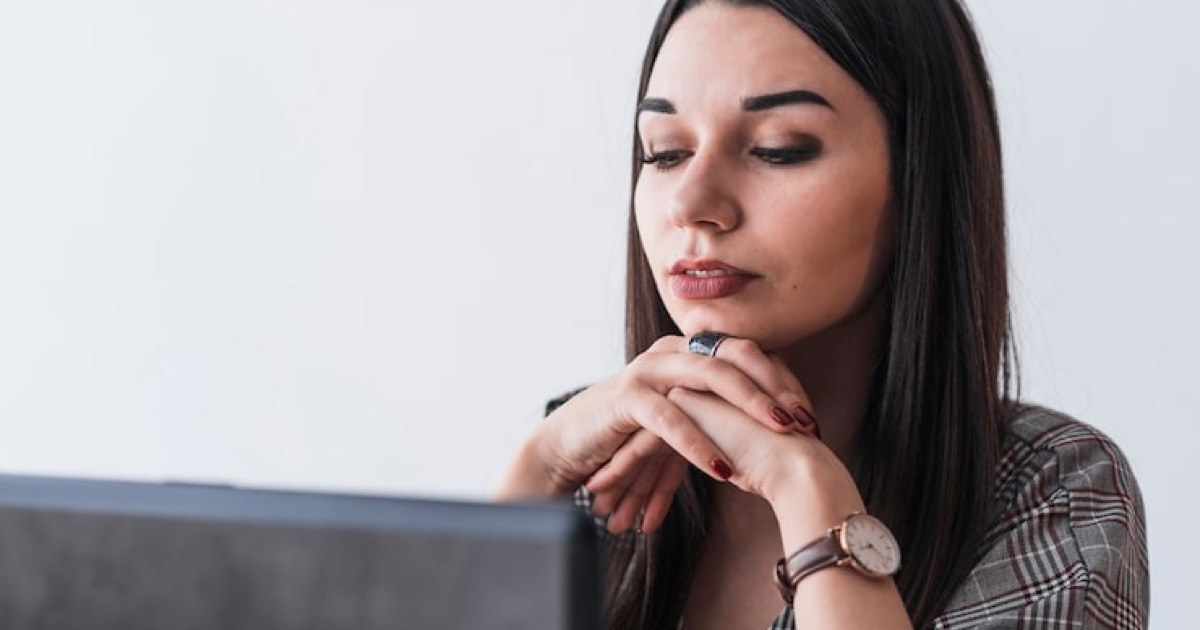
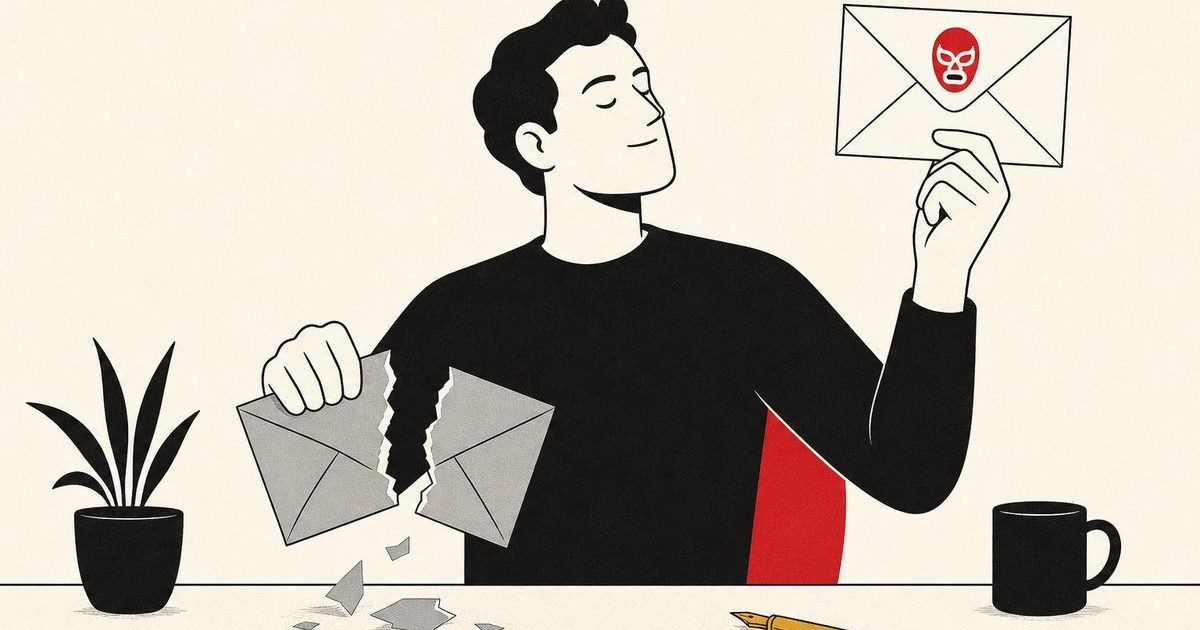
Blog: og:image y twitter:image de los 27 posts apuntan a las ilustraciones (recorte 1200×630)

diff --git a/public/blog/enviar-emails-desde-dominio.html b/public/blog/enviar-emails-desde-dominio.html
@@ -13,18 +13,18 @@
     <meta property="og:url" content="https://www.mailmask.studio/blog/enviar-emails-desde-dominio" />
     <meta property="og:locale" content="es_MX" />
     <meta property="og:site_name" content="MailMask" />
-    <meta property="og:image" content="https://www.mailmask.studio/blog/img/enviar-desde-dominio-og.jpg" />
+    <meta property="og:image" content="https://www.mailmask.studio/blog/img/enviar-dominio-og.jpg" />
     <meta property="og:image:width" content="1200" />
     <meta property="og:image:height" content="630" />
-    <meta property="og:image:alt" content="Persona trabajando en su laptop, respondiendo correo desde su dominio" />
-    <meta property="og:image:secure_url" content="https://www.mailmask.studio/blog/img/enviar-desde-dominio-og.jpg" />
+    <meta property="og:image:alt" content="Un buzón con la máscara de MailMask lanza un sobre como avión de papel" />
+    <meta property="og:image:secure_url" content="https://www.mailmask.studio/blog/img/enviar-dominio-og.jpg" />
     <meta property="og:image:type" content="image/jpeg" />
     <meta name="twitter:card" content="summary_large_image" />
     <meta name="twitter:site" content="@HectorBlisS" />
     <meta name="twitter:creator" content="@HectorBlisS" />
     <meta name="twitter:title" content="Cómo enviar emails desde tu dominio (no solo recibir)" />
     <meta name="twitter:description" content="Tres formas de enviar desde tu dominio: Bandeja, API/SDK y SMTP relay." />
-    <meta name="twitter:image" content="https://www.mailmask.studio/blog/img/enviar-desde-dominio-og.jpg" />
+    <meta name="twitter:image" content="https://www.mailmask.studio/blog/img/enviar-dominio-og.jpg" />
     <meta property="article:published_time" content="2026-02-24" />
     <meta property="article:modified_time" content="2026-08-12" />
     <script src="/js/analytics.js"></script>

diff --git a/public/blog/dominio-verificado-que-rebota-anatomia-ses.html b/public/blog/dominio-verificado-que-rebota-anatomia-ses.html
@@ -14,13 +14,13 @@
     <meta property="og:url" content="https://www.mailmask.studio/blog/dominio-verificado-que-rebota-anatomia-ses" />
     <meta property="og:locale" content="es_MX" />
     <meta property="og:site_name" content="MailMask" />
-    <meta property="og:image" content="https://www.mailmask.studio/blog/img/anatomia-ses.jpg" />
+    <meta property="og:image" content="https://www.mailmask.studio/blog/img/anatomia-ses-og.jpg" />
     <meta property="og:image:width" content="1200" />
     <meta property="og:image:height" content="630" />
-    <meta property="og:image:alt" content="Rebote de Gmail con 550 5.1.1 mailbox unavailable junto al título: verificado no significa que recibe" />
-    <meta property="og:image:secure_url" content="https://www.mailmask.studio/blog/img/anatomia-ses.jpg" />
+    <meta property="og:image:alt" content="Diagrama de un buzón con tres partes señaladas y un sobre que rebota" />
+    <meta property="og:image:secure_url" content="https://www.mailmask.studio/blog/img/anatomia-ses-og.jpg" />
     <meta property="og:image:type" content="image/jpeg" />
-    <meta name="twitter:image" content="https://www.mailmask.studio/blog/img/anatomia-ses.jpg" />
+    <meta name="twitter:image" content="https://www.mailmask.studio/blog/img/anatomia-ses-og.jpg" />
     <meta property="article:published_time" content="2026-09-02" />
     <meta property="article:modified_time" content="2026-09-02" />
     <meta property="article:section" content="Ingeniería" />

diff --git a/public/blog/opciones-email-profesional-2026.html b/public/blog/opciones-email-profesional-2026.html
@@ -13,13 +13,13 @@
     <meta property="og:url" content="https://www.mailmask.studio/blog/opciones-email-profesional-2026" />
     <meta property="og:locale" content="es_MX" />
     <meta property="og:site_name" content="MailMask" />
-    <meta property="og:image" content="https://www.mailmask.studio/blog/img/email-moderno.jpg" />
+    <meta property="og:image" content="https://www.mailmask.studio/blog/img/email-moderno-og.jpg" />
     <meta property="og:image:width" content="1200" />
     <meta property="og:image:height" content="630" />
-    <meta property="og:image:alt" content="Email profesional en 2026: qué opciones existen y cuál conviene en LATAM" />
-    <meta property="og:image:secure_url" content="https://www.mailmask.studio/blog/img/email-moderno.jpg" />
+    <meta property="og:image:alt" content="Una persona elige entre cuatro caminos: corporativo, nube, servidor propio y el buzón de MailMask" />
+    <meta property="og:image:secure_url" content="https://www.mailmask.studio/blog/img/email-moderno-og.jpg" />
     <meta property="og:image:type" content="image/jpeg" />
-    <meta name="twitter:image" content="https://www.mailmask.studio/blog/img/email-moderno.jpg" />
+    <meta name="twitter:image" content="https://www.mailmask.studio/blog/img/email-moderno-og.jpg" />
     <meta property="article:published_time" content="2026-02-24" />
     <meta name="twitter:card" content="summary_large_image" />
     <meta name="twitter:site" content="@HectorBlisS" />

diff --git a/public/blog/iniciar-negocio-email-profesional.html b/public/blog/iniciar-negocio-email-profesional.html
@@ -13,13 +13,13 @@
     <meta property="og:url" content="https://www.mailmask.studio/blog/iniciar-negocio-email-profesional" />
     <meta property="og:locale" content="es_MX" />
     <meta property="og:site_name" content="MailMask" />
-    <meta property="og:image" content="https://www.mailmask.studio/blog/img/iniciar-negocio.jpg" />
+    <meta property="og:image" content="https://www.mailmask.studio/blog/img/iniciar-negocio-og.jpg" />
     <meta property="og:image:width" content="1200" />
     <meta property="og:image:height" content="630" />
-    <meta property="og:image:alt" content="Cómo iniciar tu negocio con email profesional desde el primer día" />
-    <meta property="og:image:secure_url" content="https://www.mailmask.studio/blog/img/iniciar-negocio.jpg" />
+    <meta property="og:image:alt" content="El dueño de una tienda recién abierta cuelga su buzón de MailMask con un moño" />
+    <meta property="og:image:secure_url" content="https://www.mailmask.studio/blog/img/iniciar-negocio-og.jpg" />
     <meta property="og:image:type" content="image/jpeg" />
-    <meta name="twitter:image" content="https://www.mailmask.studio/blog/img/iniciar-negocio.jpg" />
+    <meta name="twitter:image" content="https://www.mailmask.studio/blog/img/iniciar-negocio-og.jpg" />
     <meta property="article:published_time" content="2026-02-24" />
     <meta name="twitter:card" content="summary_large_image" />
     <meta name="twitter:site" content="@HectorBlisS" />

diff --git a/public/blog/email-equipos-remotos-latam.html b/public/blog/email-equipos-remotos-latam.html
@@ -13,13 +13,13 @@
     <meta property="og:url" content="https://www.mailmask.studio/blog/email-equipos-remotos-latam" />
     <meta property="og:locale" content="es_MX" />
     <meta property="og:site_name" content="MailMask" />
-    <meta property="og:image" content="https://www.mailmask.studio/blog/img/equipos-remotos.jpg" />
+    <meta property="og:image" content="https://www.mailmask.studio/blog/img/equipos-remotos-og.jpg" />
     <meta property="og:image:width" content="1200" />
     <meta property="og:image:height" content="630" />
-    <meta property="og:image:alt" content="Email profesional para equipos remotos en LATAM: precio fijo, no por usuario" />
-    <meta property="og:image:secure_url" content="https://www.mailmask.studio/blog/img/equipos-remotos.jpg" />
+    <meta property="og:image:alt" content="Tres personas en distintas ciudades de Latinoamérica comparten una bandeja" />
+    <meta property="og:image:secure_url" content="https://www.mailmask.studio/blog/img/equipos-remotos-og.jpg" />
     <meta property="og:image:type" content="image/jpeg" />
-    <meta name="twitter:image" content="https://www.mailmask.studio/blog/img/equipos-remotos.jpg" />
+    <meta name="twitter:image" content="https://www.mailmask.studio/blog/img/equipos-remotos-og.jpg" />
     <meta property="article:published_time" content="2026-02-24" />
     <meta name="twitter:card" content="summary_large_image" />
     <meta name="twitter:site" content="@HectorBlisS" />

diff --git a/public/blog/clasificador-automatico-emails-ia.html b/public/blog/clasificador-automatico-emails-ia.html
@@ -13,13 +13,13 @@
     <meta property="og:url" content="https://www.mailmask.studio/blog/clasificador-automatico-emails-ia" />
     <meta property="og:locale" content="es_MX" />
     <meta property="og:site_name" content="MailMask" />
-    <meta property="og:image" content="https://www.mailmask.studio/blog/img/clasificador-ia.jpg" />
+    <meta property="og:image" content="https://www.mailmask.studio/blog/img/clasificador-ia-og.jpg" />
     <meta property="og:image:width" content="1200" />
     <meta property="og:image:height" content="630" />
-    <meta property="og:image:alt" content="Un solo correo de contacto, cero desorden: clasifica emails con IA" />
-    <meta property="og:image:secure_url" content="https://www.mailmask.studio/blog/img/clasificador-ia.jpg" />
+    <meta property="og:image:alt" content="Un robot kawaii con la máscara de MailMask reparte sobres en tres bandejas" />
+    <meta property="og:image:secure_url" content="https://www.mailmask.studio/blog/img/clasificador-ia-og.jpg" />
     <meta property="og:image:type" content="image/jpeg" />
-    <meta name="twitter:image" content="https://www.mailmask.studio/blog/img/clasificador-ia.jpg" />
+    <meta name="twitter:image" content="https://www.mailmask.studio/blog/img/clasificador-ia-og.jpg" />
     <meta property="article:published_time" content="2026-02-24" />
     <meta name="twitter:card" content="summary_large_image" />
     <meta name="twitter:site" content="@HectorBlisS" />

diff --git a/public/blog/automatizar-email-n8n-make-zapier-aliases.html b/public/blog/automatizar-email-n8n-make-zapier-aliases.html
@@ -13,13 +13,13 @@
     <meta property="og:url" content="https://www.mailmask.studio/blog/automatizar-email-n8n-make-zapier-aliases" />
     <meta property="og:locale" content="es_MX" />
     <meta property="og:site_name" content="MailMask" />
-    <meta property="og:image" content="https://www.mailmask.studio/blog/img/automatizar.jpg" />
+    <meta property="og:image" content="https://www.mailmask.studio/blog/img/automatizar-og.jpg" />
     <meta property="og:image:width" content="1200" />
     <meta property="og:image:height" content="630" />
-    <meta property="og:image:alt" content="Automatiza tu email con n8n, Make y Zapier usando aliases" />
-    <meta property="og:image:secure_url" content="https://www.mailmask.studio/blog/img/automatizar.jpg" />
+    <meta property="og:image:alt" content="Un sobre entra a una máquina de engranes y sale como chat, hoja de cálculo y notificación" />
+    <meta property="og:image:secure_url" content="https://www.mailmask.studio/blog/img/automatizar-og.jpg" />
     <meta property="og:image:type" content="image/jpeg" />
-    <meta name="twitter:image" content="https://www.mailmask.studio/blog/img/automatizar.jpg" />
+    <meta name="twitter:image" content="https://www.mailmask.studio/blog/img/automatizar-og.jpg" />
     <meta property="article:published_time" content="2026-02-23" />
     <meta name="twitter:card" content="summary_large_image" />
     <meta name="twitter:site" content="@HectorBlisS" />

diff --git a/public/blog/bandeja-compartida-vs-helpdesk.html b/public/blog/bandeja-compartida-vs-helpdesk.html
@@ -13,13 +13,13 @@
     <meta property="og:url" content="https://www.mailmask.studio/blog/bandeja-compartida-vs-helpdesk" />
     <meta property="og:locale" content="es_MX" />
     <meta property="og:site_name" content="MailMask" />
-    <meta property="og:image" content="https://www.mailmask.studio/blog/img/bandeja-vs-helpdesk.jpg" />
+    <meta property="og:image" content="https://www.mailmask.studio/blog/img/bandeja-vs-helpdesk-og.jpg" />
     <meta property="og:image:width" content="1200" />
     <meta property="og:image:height" content="630" />
-    <meta property="og:image:alt" content="Bandeja compartida vs helpdesk: ¿cuál necesitas?" />
-    <meta property="og:image:secure_url" content="https://www.mailmask.studio/blog/img/bandeja-vs-helpdesk.jpg" />
+    <meta property="og:image:alt" content="Una bandeja compartida frente a una pesada consola de helpdesk" />
+    <meta property="og:image:secure_url" content="https://www.mailmask.studio/blog/img/bandeja-vs-helpdesk-og.jpg" />
     <meta property="og:image:type" content="image/jpeg" />
-    <meta name="twitter:image" content="https://www.mailmask.studio/blog/img/bandeja-vs-helpdesk.jpg" />
+    <meta name="twitter:image" content="https://www.mailmask.studio/blog/img/bandeja-vs-helpdesk-og.jpg" />
     <meta property="article:published_time" content="2026-02-23" />
     <meta name="twitter:card" content="summary_large_image" />
     <meta name="twitter:site" content="@HectorBlisS" />

diff --git a/public/blog/email-clientes-sin-acceso-hosting.html b/public/blog/email-clientes-sin-acceso-hosting.html
@@ -13,13 +13,13 @@
     <meta property="og:url" content="https://www.mailmask.studio/blog/email-clientes-sin-acceso-hosting" />
     <meta property="og:locale" content="es_MX" />
     <meta property="og:site_name" content="MailMask" />
-    <meta property="og:image" content="https://www.mailmask.studio/blog/img/sin-hosting.jpg" />
+    <meta property="og:image" content="https://www.mailmask.studio/blog/img/sin-hosting-og.jpg" />
     <meta property="og:image:width" content="1200" />
     <meta property="og:image:height" content="630" />
-    <meta property="og:image:alt" content="Cómo dar de alta emails a clientes sin darles acceso al hosting" />
-    <meta property="og:image:secure_url" content="https://www.mailmask.studio/blog/img/sin-hosting.jpg" />
+    <meta property="og:image:alt" content="Alguien entrega un sobre a su cliente sin abrir el servidor cerrado con candado" />
+    <meta property="og:image:secure_url" content="https://www.mailmask.studio/blog/img/sin-hosting-og.jpg" />
     <meta property="og:image:type" content="image/jpeg" />
-    <meta name="twitter:image" content="https://www.mailmask.studio/blog/img/sin-hosting.jpg" />
+    <meta name="twitter:image" content="https://www.mailmask.studio/blog/img/sin-hosting-og.jpg" />
     <meta property="article:published_time" content="2026-02-21" />
     <meta name="twitter:card" content="summary_large_image" />
     <meta name="twitter:site" content="@HectorBlisS" />

diff --git a/public/blog/respuestas-sugeridas-ia.html b/public/blog/respuestas-sugeridas-ia.html
@@ -13,13 +13,13 @@
     <meta property="og:url" content="https://www.mailmask.studio/blog/respuestas-sugeridas-ia" />
     <meta property="og:locale" content="es_MX" />
     <meta property="og:site_name" content="MailMask" />
-    <meta property="og:image" content="https://www.mailmask.studio/blog/img/respuestas-ia.jpg" />
+    <meta property="og:image" content="https://www.mailmask.studio/blog/img/respuestas-ia-og.jpg" />
     <meta property="og:image:width" content="1200" />
     <meta property="og:image:height" content="630" />
-    <meta property="og:image:alt" content="Responde correos de clientes 5x más rápido con IA" />
-    <meta property="og:image:secure_url" content="https://www.mailmask.studio/blog/img/respuestas-ia.jpg" />
+    <meta property="og:image:alt" content="Un robot kawaii ofrece tres respuestas sugeridas junto a un sobre abierto" />
+    <meta property="og:image:secure_url" content="https://www.mailmask.studio/blog/img/respuestas-ia-og.jpg" />
     <meta property="og:image:type" content="image/jpeg" />
-    <meta name="twitter:image" content="https://www.mailmask.studio/blog/img/respuestas-ia.jpg" />
+    <meta name="twitter:image" content="https://www.mailmask.studio/blog/img/respuestas-ia-og.jpg" />
     <meta property="article:published_time" content="2026-02-24" />
     <meta name="twitter:card" content="summary_large_image" />
     <meta name="twitter:site" content="@HectorBlisS" />

diff --git a/public/blog/email-profesional-startups.html b/public/blog/email-profesional-startups.html
@@ -13,13 +13,13 @@
     <meta property="og:url" content="https://www.mailmask.studio/blog/email-profesional-startups" />
     <meta property="og:locale" content="es_MX" />
     <meta property="og:site_name" content="MailMask" />
-    <meta property="og:image" content="https://www.mailmask.studio/blog/img/startups.jpg" />
+    <meta property="og:image" content="https://www.mailmask.studio/blog/img/startups-og.jpg" />
     <meta property="og:image:width" content="1200" />
     <meta property="og:image:height" content="630" />
-    <meta property="og:image:alt" content="Email profesional para startups: dominio propio desde día uno" />
-    <meta property="og:image:secure_url" content="https://www.mailmask.studio/blog/img/startups.jpg" />
+    <meta property="og:image:alt" content="Una laptop y una caja con la máscara de MailMask de la que salen sobres hacia un buzón" />
+    <meta property="og:image:secure_url" content="https://www.mailmask.studio/blog/img/startups-og.jpg" />
     <meta property="og:image:type" content="image/jpeg" />
-    <meta name="twitter:image" content="https://www.mailmask.studio/blog/img/startups.jpg" />
+    <meta name="twitter:image" content="https://www.mailmask.studio/blog/img/startups-og.jpg" />
     <meta property="article:published_time" content="2026-02-23" />
     <meta name="twitter:card" content="summary_large_image" />
     <meta name="twitter:site" content="@HectorBlisS" />

diff --git a/public/blog/email-profesional-freelancer.html b/public/blog/email-profesional-freelancer.html
@@ -13,13 +13,13 @@
     <meta property="og:url" content="https://www.mailmask.studio/blog/email-profesional-freelancer" />
     <meta property="og:locale" content="es_MX" />
     <meta property="og:site_name" content="MailMask" />
-    <meta property="og:image" content="https://www.mailmask.studio/blog/img/freelancer.jpg" />
+    <meta property="og:image" content="https://www.mailmask.studio/blog/img/freelancer-og.jpg" />
     <meta property="og:image:width" content="1200" />
     <meta property="og:image:height" content="630" />
-    <meta property="og:image:alt" content="Email profesional para freelancers: cobra más con dominio propio" />
-    <meta property="og:image:secure_url" content="https://www.mailmask.studio/blog/img/freelancer.jpg" />
+    <meta property="og:image:alt" content="Un freelancer envía un sobre con la máscara de MailMask a su cliente" />
+    <meta property="og:image:secure_url" content="https://www.mailmask.studio/blog/img/freelancer-og.jpg" />
     <meta property="og:image:type" content="image/jpeg" />
-    <meta name="twitter:image" content="https://www.mailmask.studio/blog/img/freelancer.jpg" />
+    <meta name="twitter:image" content="https://www.mailmask.studio/blog/img/freelancer-og.jpg" />
     <meta property="article:published_time" content="2026-02-21" />
     <meta name="twitter:card" content="summary_large_image" />
     <meta name="twitter:site" content="@HectorBlisS" />
